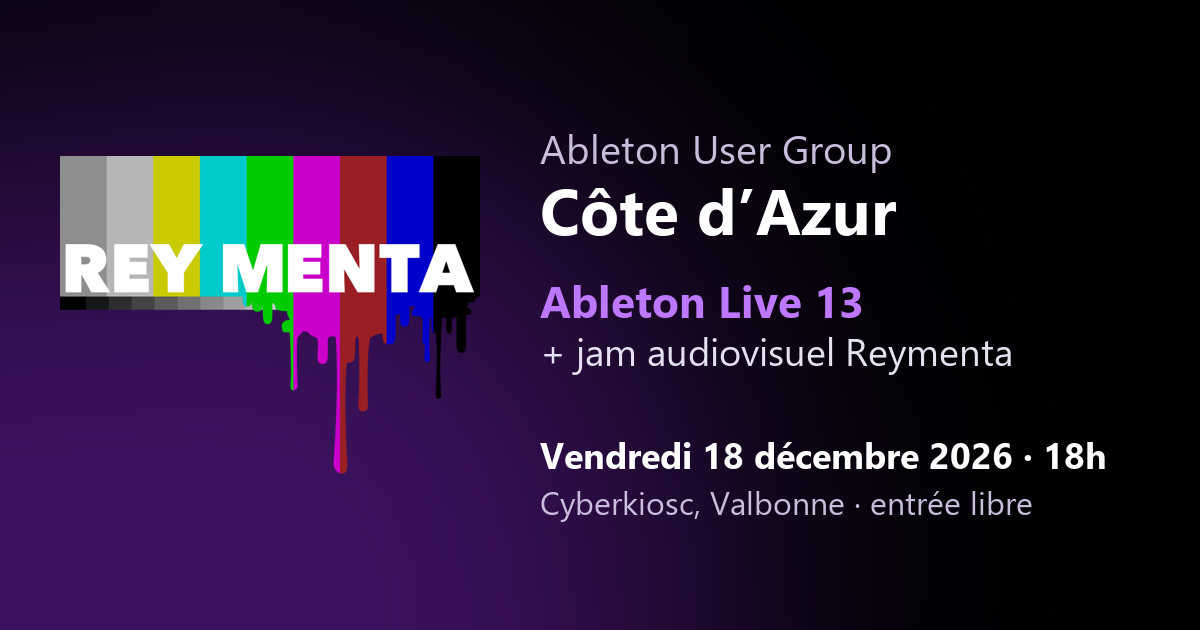
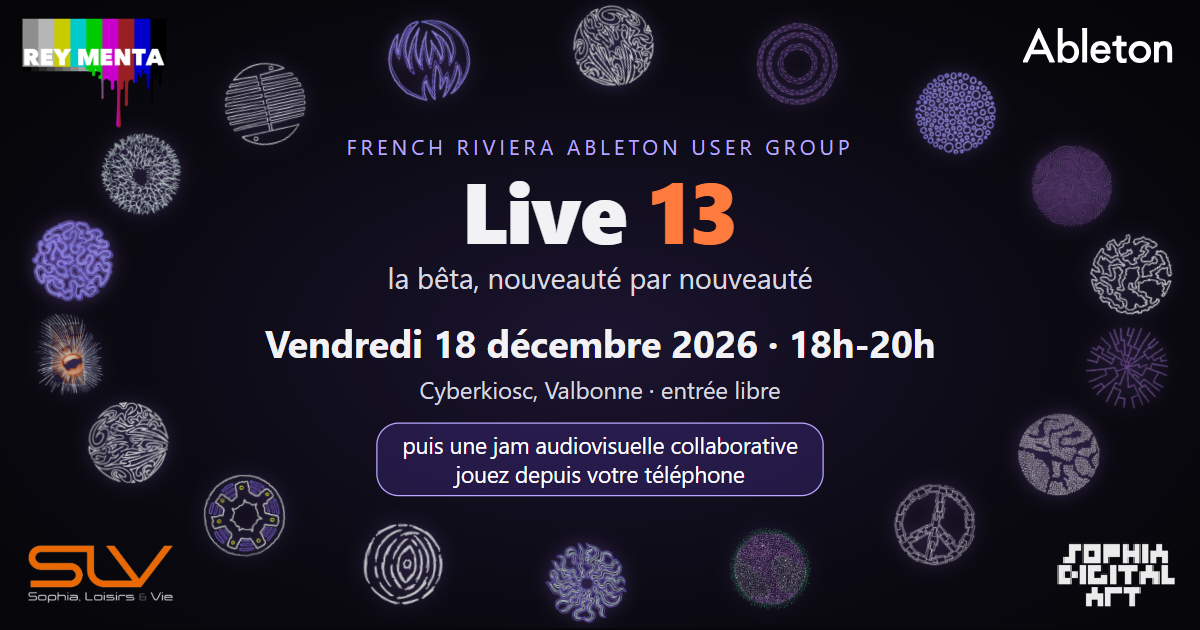
FRAUG page: French Riviera Ableton User Group, 18h-20h, collaborative jam, new og.png

diff --git a/web/public/fraug/index.html b/web/public/fraug/index.html
@@ -3,19 +3,19 @@
 <head>
   <meta charset="utf-8">
   <meta name="viewport" content="width=device-width, initial-scale=1, viewport-fit=cover">
-  <title>Ableton User Group Côte d'Azur · 18 décembre 2026</title>
-  <meta name="description" content="Rencontre Ableton User Group Côte d'Azur, vendredi 18 décembre 2026 à 18h au Cyberkiosc de Valbonne : Ableton Live 13, le format .als, puis un jam audiovisuel Reymenta où le public joue depuis son téléphone. Entrée libre.">
+  <title>French Riviera Ableton User Group · 18 décembre 2026</title>
+  <meta name="description" content="Rencontre du French Riviera Ableton User Group, vendredi 18 décembre 2026 de 18h à 20h au Cyberkiosc de Valbonne : Ableton Live 13, le format .als, puis un jam audiovisuel collaboratif où le public joue depuis son téléphone. Entrée libre.">
   <link rel="canonical" href="https://live.videodromm.com/fraug/">
   <!-- the Facebook / Open Graph preview (a static page, so the link preview has its image and text) -->
   <meta property="og:type" content="website">
   <meta property="og:locale" content="fr_FR">
   <meta property="og:url" content="https://live.videodromm.com/fraug/">
-  <meta property="og:title" content="Ableton User Group Côte d'Azur : Live 13 + jam Reymenta">
-  <meta property="og:description" content="Vendredi 18 décembre 2026, 18h, Cyberkiosc de Valbonne. Entrée libre.">
+  <meta property="og:title" content="French Riviera Ableton User Group : Live 13 + jam audiovisuel collaboratif">
+  <meta property="og:description" content="Vendredi 18 décembre 2026, 18h-20h, Cyberkiosc de Valbonne. Entrée libre.">
   <meta property="og:image" content="https://live.videodromm.com/fraug/og.png">
   <meta property="og:image:width" content="1200">
   <meta property="og:image:height" content="630">
-  <meta property="og:image:alt" content="Ableton User Group Côte d'Azur, Live 13 + jam audiovisuel Reymenta, vendredi 18 décembre 2026 à 18h, Cyberkiosc, Valbonne">
+  <meta property="og:image:alt" content="French Riviera Ableton User Group, Live 13 + jam audiovisuel collaboratif, vendredi 18 décembre 2026 de 18h à 20h, Cyberkiosc, Valbonne">
   <meta name="twitter:card" content="summary_large_image">
   <link rel="icon" type="image/png" sizes="32x32" href="/favicon-32.png">
   <link rel="apple-touch-icon" href="/apple-touch-icon.png">
@@ -23,8 +23,9 @@
   {
     "@context": "https://schema.org",
     "@type": "Event",
-    "name": "Ableton User Group Côte d'Azur : Live 13 + jam Reymenta",
+    "name": "French Riviera Ableton User Group : Live 13 + jam audiovisuel collaboratif",
     "startDate": "2026-12-18T18:00:00+01:00",
+    "endDate": "2026-12-18T20:00:00+01:00",
     "eventAttendanceMode": "https://schema.org/OfflineEventAttendanceMode",
     "eventStatus": "https://schema.org/EventScheduled",
     "isAccessibleForFree": true,
@@ -82,11 +83,11 @@
 <body>
   <main>
     <img class="logo" src="/logo.png" alt="Reymenta" width="706" height="534">
-    <p class="kicker">Ableton User Group</p>
-    <h1>Côte d'Azur : Live 13 + jam audiovisuel</h1>
+    <p class="kicker">French Riviera Ableton User Group</p>
+    <h1>Live 13 + jam audiovisuel collaboratif</h1>
     <p class="when">
       <span>Vendredi 18 décembre 2026</span>
-      <span>18h</span>
+      <span>18h-20h</span>
       <span>Cyberkiosc, Valbonne</span>
       <span class="free">Entrée libre</span>
     </p>
@@ -104,7 +105,7 @@
         <li><b>Ableton Live 13</b>Les nouveautés de la bêta publique : Step Sequencer, Drum Synth, Looplet, séparation de stems, racks à 32 macros, carte de tempo…</li>
         <li><b>Le fichier .als</b>Ce qu'il y a dans un set Live, et comment ouvrir un set Live 13 dans Live 12.</li>
         <li><b>Un set Ableton, c'est des données</b>Lire et écrire des sets depuis du code : des sons d'un set vers Strudel, de Strudel vers Ableton.</li>
-        <li><b>Jam audiovisuel Reymenta</b>Sortez votre téléphone : flashez le QR code à l'écran et jouez avec nous, sans rien installer. Batterie, basse, synthés et effets dans Live, les visuels réagissent à la salle.</li>
+        <li><b>Jam audiovisuel collaboratif</b>Sortez votre téléphone : flashez le QR code à l'écran et jouez avec nous, sans rien installer. Batterie, basse, synthés et effets dans Live, les visuels réagissent à la salle.</li>
       </ol>
     </section>
 
@@ -133,7 +134,7 @@
 
     <section>
       <h2>Le groupe</h2>
-      <p>L'Ableton User Group Côte d'Azur réunit celles et ceux qui font de la musique avec Ableton Live et Push sur la Côte d'Azur, débutants comme confirmés. Les annonces et les échanges se passent sur le <a href="https://www.facebook.com/groups/french.riviera.ableton">groupe Facebook</a> : rejoignez-le pour ne rien rater.</p>
+      <p>Le French Riviera Ableton User Group réunit celles et ceux qui font de la musique avec Ableton Live et Push sur la Côte d'Azur, débutants comme confirmés. Les annonces et les échanges se passent sur le <a href="https://www.facebook.com/groups/french.riviera.ableton">groupe Facebook</a> : rejoignez-le pour ne rien rater.</p>
     </section>
 
     <footer>

diff --git a/CLAUDE.md b/CLAUDE.md
@@ -1,6 +1,6 @@
 # reymenta
 
-The audience side of the Reymenta AV set (**18 December 2026**, right after the Ableton meeting, as an audiovisual jam; the 23 January 2027 date is cancelled): a phone page and an audience server that turns the
+The audience side of Reymenta (**18 December 2026**: a collaborative audiovisual jam right after the French Riviera Ableton User Group meeting; no Reymenta set performed that night, the 23 January 2027 date is cancelled; run sheet `../abletonmeeting/run-of-show.md`): a phone page and an audience server that turns the
 room's tilt/shake/touch/emoji into Cinder uniforms `iAud0..iAud31` (260..291). Overview, decisions and the plan:
 `../studies/reymenta-audience.md`. How to run: `README.md`.
 
@@ -280,8 +280,8 @@ Les tests internes ne comptent pas pour l'accès à la production. Pour ça, il 
   room state, back to the start screen); the Workshop's "Show" button became the same "Accueil / Home". Clicked
   through in headless Edge (start → Jam → Home → Workshop → Home); the server's `/status` drops the phone.
 - 2026-11-26 (6.11.26.4): **the FRAUG page and the online Jam.**
-  - `web/public/fraug/` = https://live.videodromm.com/fraug/ (static, French, no app code): the Ableton User Group
-    Côte d'Azur meeting, Friday 18 December 2026 18h, Cyberkiosc, rue de l'Hôtel Dieu (sous la Mairie), 06560
+  - `web/public/fraug/` = https://live.videodromm.com/fraug/ (static, French, no app code): the French Riviera
+    Ableton User Group meeting (not "Côte d'Azur"), Friday 18 December 2026 18h, Cyberkiosc, rue de l'Hôtel Dieu (sous la Mairie), 06560
     Valbonne, free entry; programme (Live 13, the .als, sets from code, the Reymenta jam), the Facebook group
     (`groups/french.riviera.ableton`, public, the one Ableton knows; the 23-member group points to it), `fraug.ics`
     (18h-21h: the end time is a guess), Open Graph tags + `og.png` 1200x630 (`python tools/fraug-og.py`, from
@@ -351,3 +351,9 @@ Les tests internes ne comptent pas pour l'accès à la production. Pour ça, il 
   AudioWorklets (distort, crush, shape: strudel-flow's Texture node) load there, and @strudel/web only ran it on a
   first click in the frame; with autoplay allowed there was none ("[getTrigger] error: Failed to construct
   'AudioWorkletNode'"). Checked in headless Edge (frame console: "AudioWorklets loaded", no error).
+- 2026-11-27 (6.11.27.1): FRAUG page: the group's name is **French Riviera Ableton User Group** (title, Open Graph,
+  schema.org, heading, `fraug.ics`); the jam is "collaboratif" (no Reymenta set that night). `og.png` is now the
+  Facebook cover's picture (`abletonmeeting/facebook/cover.html`, `node facebook/render-cover.mjs` writes both);
+  `tools/fraug-og.py` deleted. Not deployed: the SWA workflow publishes it on push.
+- 2026-11-27 (6.11.27.2): FRAUG page and `fraug.ics`: ends at **20h** (SLV, 18h-20h; schema.org `endDate`);
+  `og.png` re-rendered with the partners' logos.

diff --git a/README.md b/README.md
@@ -1,7 +1,7 @@
 # Reymenta
 
-The audience plays along with the Reymenta AV set from their phones: tilt, shake, touch and emoji move the
-visuals that Cinder renders on the screen. Built for the French Riviera Ableton User Group Côte d'Azur, 23 January 2027.
+The audience plays along from their phones: tilt, shake, touch and emoji move the visuals that Cinder renders on
+the screen, and the Jam plays Ableton Live. First used for the French Riviera Ableton User Group, 18 December 2026.
 Site: `live.videodromm.com` (to come). French / English.
 
 Design and plans: [`studies/reymenta-audience.md`](../studies/reymenta-audience.md) in the parent `repos` folder.
